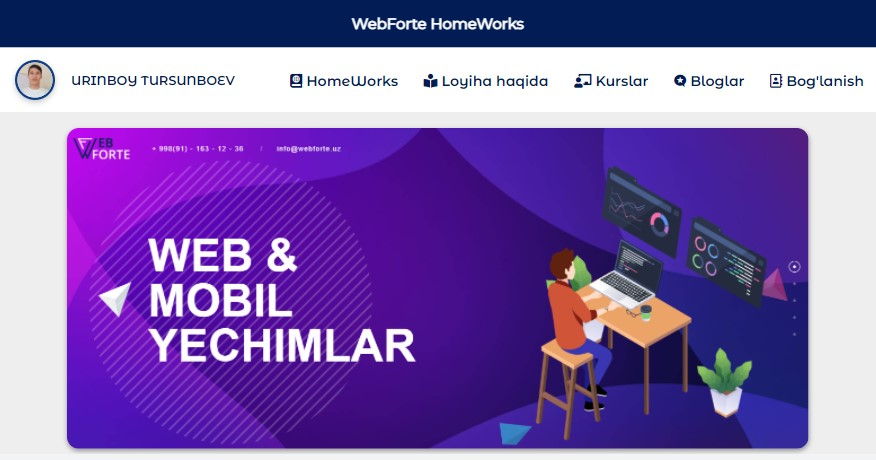
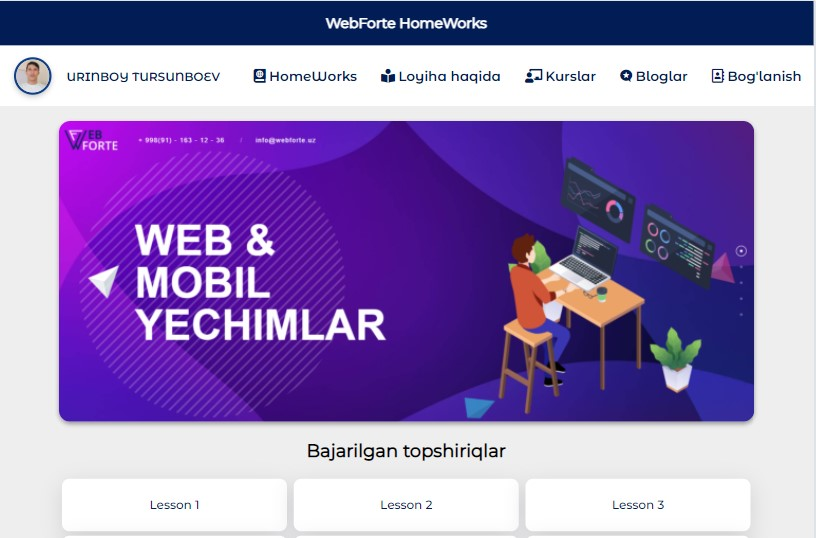
img index main

diff --git a/WebForte/index.html b/WebForte/index.html
@@ -57,6 +57,70 @@
           yuritimiz va vohamizda AKT sohasi rivojiga o'z hissasini qo'shishni istagan yoshlar jamoasini tashkil etish.</p>
         </section>
       </main>
+
+      <!-- reklama section starts -->
+      <style>
+        .reklama{
+          width: 80%;
+          margin: 10px auto;
+          padding: 25px 15px;
+          font-size: 16px;
+          text-align: center;
+          font-weight: bold;
+          color: #021C56;
+          background-color: #cde;
+          background-image: url('https://urinboy.github.io/WebForte/lesson_7/images/bg4.png');
+          display: flex;
+          justify-content: center;
+          align-items: center;
+          border-radius: 15px;
+          box-shadow: rgba(100, 100, 111, 0.2) 0px 7px 29px 0px;
+        }
+      .btn_link{
+        width: 38%;
+        display: block;
+        margin: 10px auto;
+        margin-bottom: -10px;
+        padding: 15px 4px;
+        text-align: center;
+        background-color: #fff;
+        border-radius: 15px;
+        border: 1px solid  #021C56;
+        box-shadow: rgba(0, 0, 0, 0.1) 0px 4px 12px;
+      }
+      .btn_link:hover{
+        background-color:  #021C56;
+        color: #fff;
+        box-shadow: rgba(50, 50, 93, 0.25) 0px 13px 27px -5px, rgba(0, 0, 0, 0.3) 0px 8px 16px -8px;
+      }
+
+      @media screen and (max-width: 900px) {
+        .reklama img{
+          width: 95%;
+          margin: 3px auto;
+          }
+        .btn_link{
+          width: 40%;
+        }
+      }
+
+      </style>
+      <div class="reklama">
+        <div class="content_rek">
+          <h3>
+            Присоединяйтесь, чтобы учиться!
+          </h3>
+          <p>
+            Кто хочет изучать веб-дизайн в Интернете?
+            Тогда учись онлайн вместе с нами! Начальные курсы бесплатны.
+            Вы получаете новые знания и опыт благодаря своим рабочим навыкам.
+            Присоединяйтесь к нам!<br>
+            <a href="https://wayup.in/?ref_link=300380" target="_blank" class="work">Присоединяйтесь, чтобы учиться</a>
+          </p>
+        </div>
+      </div>
+      <!-- reklama section end -->
+
       <footer>
         &copy; 2021 Urinboy.Github.io | Tursunboyev O'rinboy
       </footer>

diff --git a/index.html b/index.html
@@ -49,64 +49,6 @@
 
 <!-- home section end -->
 
-<!-- reklama section starts -->
-<style>
-  .reklama{
-    width: 680px;
-    margin: 10px auto;
-    padding: 25px;
-    font-size: 16px;
-    text-align: center;
-    font-weight: bold;
-    color: #021C56;
-    background-color: #cde;
-    background-image: url('https://urinboy.github.io/WebForte/lesson_7/images/bg4.png');
-    display: flex;
-    justify-content: center;
-    align-items: center;
-    border-radius: 15px;
-  }
-.btn_link{
-  width: 320px;
-  display: block;
-  margin: 10px auto;
-  margin-bottom: -10px;
-  padding: 15px 4px;
-  text-align: center;
-  background-color: #fff;
-  border-radius: 15px;
-  border: 1px solid  #021C56;
-  box-shadow: rgba(0, 0, 0, 0.1) 0px 4px 12px;
-}
-.btn_link:hover{
-  background-color:  #021C56;
-  color: #fff;
-  box-shadow: rgba(50, 50, 93, 0.25) 0px 13px 27px -5px, rgba(0, 0, 0, 0.3) 0px 8px 16px -8px;
-}
-@media screen and (max-width: 600px) {
-  .container img{
-    width: 100%;
-    margin: 3px auto;
-    }
-}
-
-</style>
-<div class="reklama">
-  <div class="card">
-    <div class="title">
-      Присоединяйтесь, чтобы учиться!
-    </div>
-    <div class="descrption">
-      Кто хочет изучать веб-дизайн в Интернете?
-      Тогда учись онлайн вместе с нами! Начальные курсы бесплатны.
-      Вы получаете новые знания и опыт благодаря своим рабочим навыкам.
-      Присоединяйтесь к нам!
-      <a href="https://wayup.in/?ref_link=300380" target="_blank" class="btn_link">Присоединяйтесь, чтобы учиться</a>
-    </div>
-  </div>
-</div>
-<!-- reklama section end -->
-
 <!-- about section starts  -->
 
 <section class="about" id="about">

diff --git a/WebForte/main.css b/WebForte/main.css
@@ -104,6 +104,7 @@ a.link_home{
 }
 .container{
   margin: 160px auto;
+  margin-bottom: 20px;
   width: 927px;
 }
 .homeworks, .courses{
@@ -115,10 +116,8 @@ a.link_home{
 }
 .work, .course{
   display: inline-block;
-  width: 300px;
-  height: 70px;
   margin: 3px;
-  padding: 15px 0;
+  padding: 25px 5px 45px 5px;
   background-color: #fff;
   color: #021C56;
   text-align: center;
